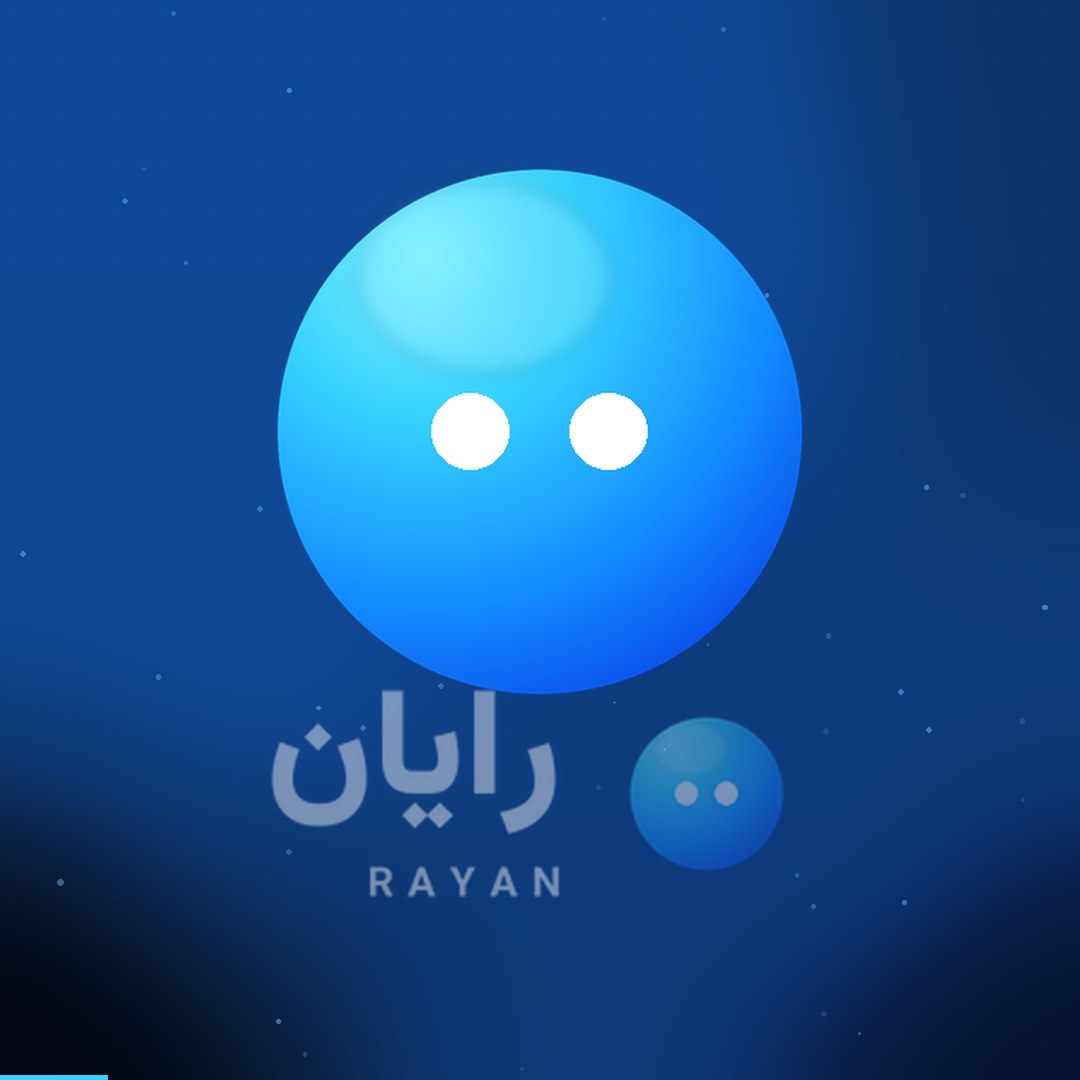
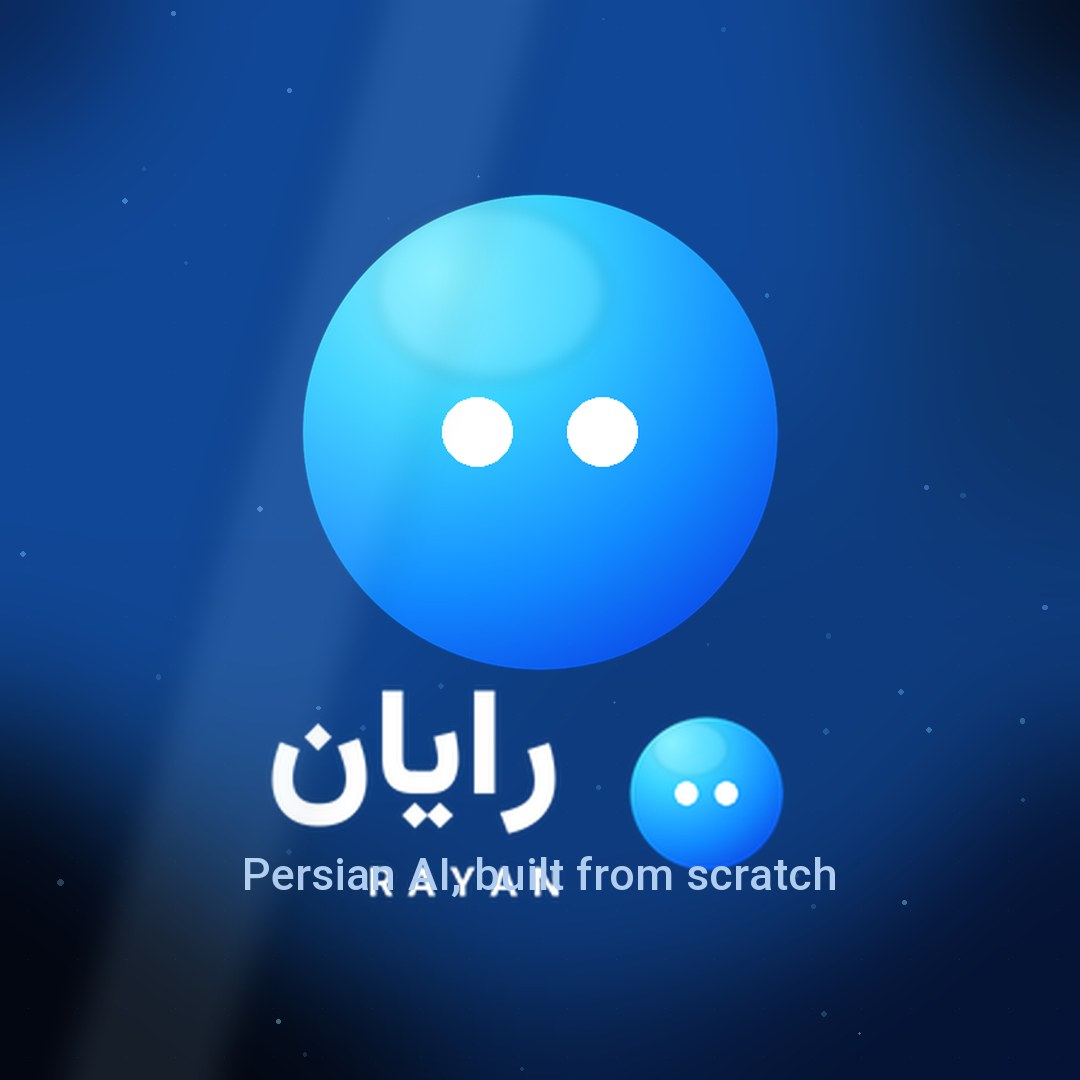
پوسترهای تبلیغاتی تازه: بدون نوار پیشرفت و با شعار برند
- پارامتر bar در frame() تا پوسترها نوار زمان نداشته باشند
- پوستر در ثانیهٔ ۲٫۴ (شعار دیده میشود) برای هر شش نسبت و دو زبان
- تفکیک نسخهٔ فارسی و انگلیسی پوستر

diff --git a/scripts/make_promo.py b/scripts/make_promo.py
@@ -182,7 +182,7 @@ def chip(img: Image.Image, box, label: str, font, alpha: float, accent=CYAN) -> 
 
 # -------------------------------------------------------------------- صحنهها
 def frame(w: int, h: int, t: float, lang: str, wordmark_white: Image.Image,
-          wordmark_ink: Image.Image) -> Image.Image:
+          wordmark_ink: Image.Image, bar: bool = True) -> Image.Image:
     cfg = TEXT[lang]
     s = min(w, h) / 720.0
     img = background(w, h, t)
@@ -314,8 +314,9 @@ def frame(w: int, h: int, t: float, lang: str, wordmark_white: Image.Image,
         img.alpha_composite(wm, (int(w / 2 - wm.width / 2), int(h * 0.70)))
 
     # نوار پیشرفت پایین + وینیت
-    d = ImageDraw.Draw(img)
-    d.rectangle([0, h - 5, int(w * (t / DURATION)), h], fill=CYAN + (200,))
+    if bar:
+        d = ImageDraw.Draw(img)
+        d.rectangle([0, h - 5, int(w * (t / DURATION)), h], fill=CYAN + (200,))
     return vignette(img).convert("RGB")
 
 
@@ -407,8 +408,9 @@ def render(out_path: str, w: int, h: int, lang: str, wordmark_white, ffmpeg: str
         raise SystemExit(f"ffmpeg failed for {out_path}")
 
 
-def poster(w: int, h: int, lang: str, wordmark, path: str) -> None:
-    img = frame(w, h, 1.2, lang, wordmark, wordmark)
+def poster(w: int, h: int, lang: str, wordmark, path: str, at: float = 2.4) -> None:
+    """پوستر بدون نوار پیشرفت، از صحنهٔ لوگو یا صحنهٔ قابلیتها."""
+    img = frame(w, h, at, lang, wordmark, wordmark, bar=False)
     img.save(path, quality=88, optimize=True)
 
 
